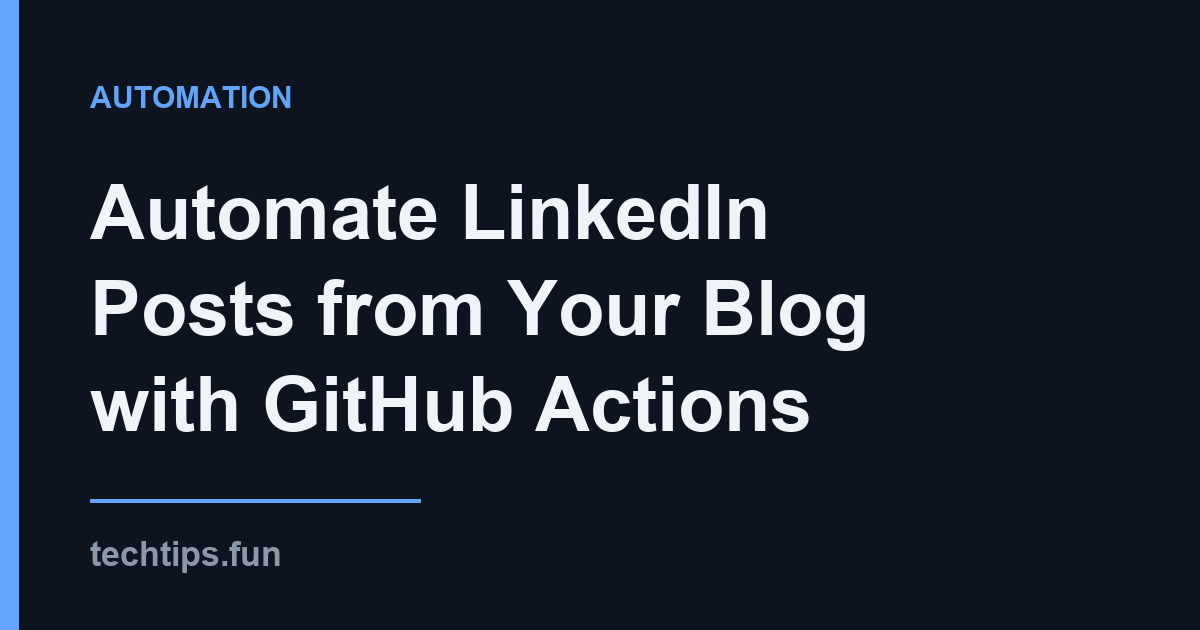
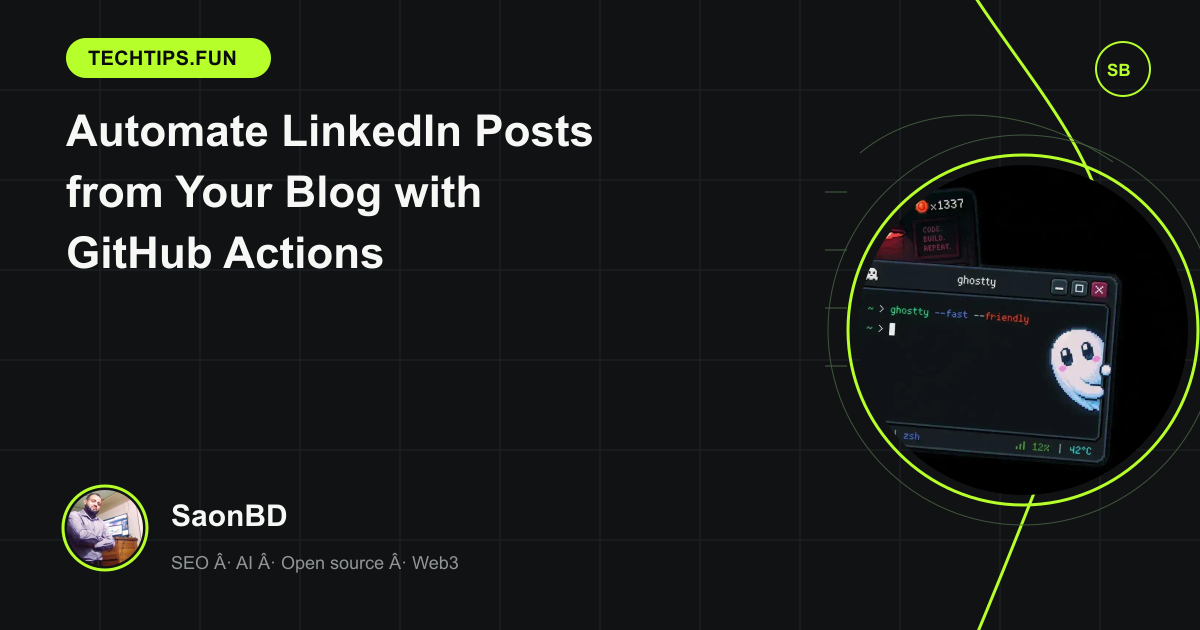
docs: brand OG cards for staged posts; update changelog and TODO

diff --git a/TODO.md b/TODO.md
@@ -9,12 +9,19 @@
 - [x] Store the token locally — `~\.linkedin-credential.xml` (DPAPI-encrypted), auto-loaded into `$env:LINKEDIN_TOKEN` by PowerShell profiles
 - [x] Add the token as the GitHub repository secret `LINKEDIN_TOKEN` on saonbd1/astro-blog-starter-template (set via `gh secret set`, confirmed in `gh secret list`)
 - [x] Verify the token with one real test post (done 2026-10-04: published the ToC article teaser, activity `urn:li:activity:7512385216968028160`). Key finding: `/v2/ugcPosts` rejects `urn:li:person` URNs for apps created under a Company Page (422: author must match `urn:li:company:`|`urn:li:member:`), and member URNs need the legacy numeric member ID which OpenID no longer exposes — so we post via the legacy `/v2/shares` endpoint, which accepts `urn:li:person:{openid-sub}` with `w_member_social`
-- [ ] Test end-to-end: add a post to `pending-posts/`, run the Schedule post publishing workflow, confirm the LinkedIn teaser appears
+- [ ] Test end-to-end: first scheduled publish (2026-10-05 09:00 UTC) should auto-fire the LinkedIn teaser — 3 articles already staged in `pending-posts/` with branded OG cards in `public/og/`
 - [ ] Optional: make re-runs idempotent (e.g., a `.shared` marker per slug) so re-pushes don't double-post
+- [ ] Optional: 60s sleep in `schedule-posts.yml` before the LinkedIn workflow triggers (Cloudflare Git deploy race)
 
 ## Social / SEO
 - [ ] Re-scrape https://www.techtips.fun/blog/migrate-static-html-site-to-astro/ in the LinkedIn Post Inspector — the preview was cached before the OG image fix (OG tags verified correct on 2026-10-04)
 - [ ] Add `socialImage` to the zod schema in `src/content.config.ts` (currently hardcoded as `/og/{slug}.png` in `src/pages/blog/[...slug].astro`; unknown keys are stripped by the schema)
+
+## Articles & identity (2026-10-04)
+- [x] 3 SEO articles written and staged in `pending-posts/` (titles 58–60 chars, descriptions 153–157/160, FAQ sections matched to autocomplete questions, first-hand 422/endpoint details)
+- [x] Branded OG cards for the 3 staged posts generated with the repo's own `npm run generate:assets` (placeholder hero fallback, author portrait)
+- [x] `kamrul-digital-expert` identity skill saved to `C:\Users\saonb\.cline\skills\kamrul-digital-expert\` (SKILL.md + references/bio.md) — recovered from a corrupt zip, broken paths fixed, voice rules + length-verified platform templates added, bio de-exaggerated (stats verified via live API: Astro 63,031★ / n8n 206,599★)
+- [ ] Optional: append author byline (E-E-A-T) to the 3 staged posts — draft ready, awaiting approval
 
 ## daily.dev
 - [x] Installed `daily.dev` + `daily-dev-ask` agent skills and stored the API token (2026-10-04)

diff --git a/CHANGELOG.md b/CHANGELOG.md
@@ -5,6 +5,7 @@ Custom features and changes on top of the upstream `astro-blog-starter-template`
 ## [2026-10-04]
 ### Added
 - **LinkedIn cross-posting automation** — `scripts/share-to-linkedin.mjs` composes a short teaser (title + truncated frontmatter `description`, ~250 chars) with the canonical article link and publishes it via the LinkedIn legacy `/v2/shares` API (`LINKEDIN_TOKEN` env var, `openid profile w_member_social` scopes; the owner URN `urn:li:person:{sub}` is resolved dynamically from `/v2/userinfo`). Run with a slug, `--latest`, or `--dry-run`. Wired to `.github/workflows/linkedin-share.yml`, which auto-fires when a new post is added to `src/content/blog/` (i.e., right after the scheduled-publish workflow commits) and also supports manual dispatch. (The newer `/v2/ugcPosts` endpoint rejects `urn:li:person` URNs for apps created under a Company Page, so the legacy endpoint is used instead.)
+- **Three automation articles staged** in `pending-posts/` (publishing one per day at 09:00 UTC from 2026-10-05, in `.order` sequence): `automate-linkedin-posts-github-actions`, `linkedin-api-pricing-free-posting-endpoint`, `content-repurposing-automation-linkedin`. Each targets a search gap validated against Google/Bing/DuckDuckGo autocomplete, answers the autocomplete questions in an FAQ section, and ships a branded 1200×630 OG card in `public/og/` (generated with `npm run generate:assets`).
 
 ## Custom features
 
